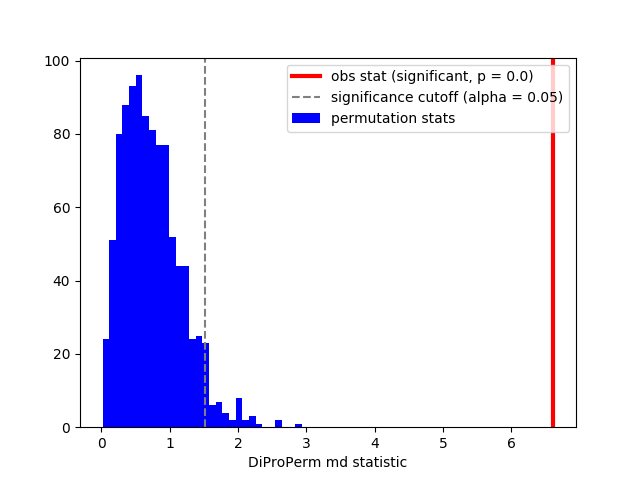
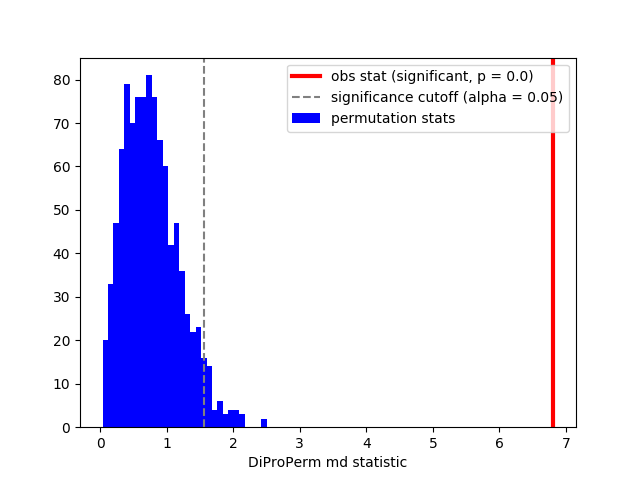
results to test_stats_, custom test stats

diff --git a/diproperm/DiProPerm.py b/diproperm/DiProPerm.py
@@ -6,13 +6,22 @@ from sklearn.externals.joblib import dump, load
 from sklearn.metrics import roc_auc_score
 from sklearn.externals.joblib import Parallel, delayed
 
+from diproperm.classifiers import get_md_scores
+
 
 class DiProPerm(object):
     """
-    Direction-Projection-Permutation for High Dimensional Hypothesis Tests (DiProPerm)
-    For details see Wei et al, 2016.
+    Direction-Projection-Permutation for High Dimensional Hypothesis Tests
+    (DiProPerm). See (Wei et al, 2016) for details.
 
-    Wei, S., Lee, C., Wichers, L., & Marron, J. S. (2016). Direction-projection-permutation for high-dimensional hypothesis tests. Journal of Computational and Graphical Statistics, 25(2), 549-569.
+    Let X1,...,Xm and Y1,...,Yn be independent random samples of d dimensional
+    random vectors with multivariate distributions F1 and F2, respectively.
+    We are interested interested the null hypothesis of equal distributions
+    H0 : F1 = F2 versus H1 : F1 != F2.
+
+    Wei, S., Lee, C., Wichers, L., & Marron, J. S. (2016).
+    Direction-projection-permutation for high-dimensional hypothesis tests.
+    Journal of Computational and Graphical Statistics, 25(2), 549-569.
 
     Parameters
     ----------
@@ -20,15 +29,24 @@ class DiProPerm(object):
         Number of permutations to sample.
 
     clf: str, callable
-        Linear classification algorithm to use. If str, must be one of ['md'].
-        If callable, must take two arguments: X, y and return a vector of scores
-        where the scores are Xw, w the linear classification normal vector.
+        Linear classification algorithm used to find a direction.
+        If str, must be one of ['md']. If callable, must take two arguments:
+        X, y and return a vector of scores where the scores are Xw, w the
+        linear classification normal vector.
 
     stat: str, list {'md', 't', 'auc'}
-        The test statistics to compute. Multiple can be provided.
+        The univariate two-sample summary statistics measuring the separation
+        between the two classes' scores. See section 2.2 of (Wei et al, 2016).
+        Multiple can be provided as a list.
 
     alpha: float
         Cutoff for significance.
+
+    custom_tests_stats: None, iterable of (str, callable) tuples
+        Custom test statistics which are a function of (obs_stat, perm_samples).
+        The str argument identifies the name of the statistic (used for)
+        keys of test_stats attributed. The function, f, must take
+        arguments f(obs_stat, perm_samples) and return a value.
 
     n_jobs: None, int
         Number of jobs for parallel processing permutations using
@@ -38,15 +56,15 @@ class DiProPerm(object):
     Attributes
     ----------
 
-    results: dict
-        dict keyed by summary statistics containing the results
+    test_stats_: dict
+        dict keyed by summary statistics containing the test statistics
         (e.g. p-value, Z statistic, etc)
 
-    perm: dict
-        dict keyed by summary statistics containing the permutation
-        samples.
+    perm_samples_: dict
+        dict containing the permutation statistic samples keyed by the
+        summary statistics.
 
-    metadata: dict
+    metadata_: dict
 
     classes_: list
         Class labels. For classification, classes_[0] is considered to
@@ -54,7 +72,7 @@ class DiProPerm(object):
 
     """
     def __init__(self, B=100, clf='md', stat='md', alpha=0.05,
-                 n_jobs=None):
+                 custom_test_stats=None, n_jobs=None):
 
         self.B = int(B)
         self.clf = clf
@@ -62,6 +80,7 @@ class DiProPerm(object):
         if type(stat) != list:
             stat = [stat]
         self.stat = stat
+        self.custom_test_stats = custom_test_stats
         self.n_jobs = n_jobs
 
     def get_params(self):
@@ -75,7 +94,7 @@ class DiProPerm(object):
             cats = self.classes_
             r += ' of {} vs. {} \n'.format(cats[0], cats[1])
             for s in self.stat:
-                r += '{}: {}\n'.format(s, self.results[s])
+                r += '{}: {}\n'.format(s, self.test_stats_[s])
 
         return r
 
@@ -103,20 +122,20 @@ class DiProPerm(object):
             ps = Parallel(n_jobs=self.n_jobs)(delayed(_get_stat)(X, y, self)
                                               for i in range(self.B))
 
-            perm_stats = {s: np.zeros(self.B) for s in self.stat}
+            perm_samples = {s: np.zeros(self.B) for s in self.stat}
             for b in range(self.B):
                 for s in self.stat:
-                    perm_stats[s][b] = ps[b][s]
-            return perm_stats
+                    perm_samples[s][b] = ps[b][s]
+            return perm_samples
 
         else:
-            perm_stats = {s: np.zeros(self.B) for s in self.stat}
+            perm_samples = {s: np.zeros(self.B) for s in self.stat}
             for b in range(self.B):
                 y_perm = np.random.permutation(y)
                 scores = self.compute_scores(X, y_perm)
                 for s in self.stat:
-                    perm_stats[s][b] = get_separation_statistic(scores, y_perm, stat=s)
-            return perm_stats
+                    perm_samples[s][b] = get_separation_statistic(scores, y_perm, stat=s)
+            return perm_samples
 
     def fit(self, X, y):
         """
@@ -144,27 +163,19 @@ class DiProPerm(object):
             obs_stat[s] = get_separation_statistic(obs_scores, y, stat=s)
 
         # compute permutation statistics
-        perm_stats = self.get_perm_sep_stats(X, y)
+        self.perm_samples_ = self.get_perm_sep_stats(X, y)
 
         # store results
-        self.perm = {}
-        self.results = {}
+        self.test_stats_ = {}
         for s in self.stat:
-            pval, Z, rejected, cutoff_val = get_test_stats(obs_stat[s],
-                                                           perm_stats[s])
+            self.test_stats_[s] = \
+                get_test_statistics(obs_stat=obs_stat[s],
+                                    perm_samples=self.perm_samples_[s],
+                                    alpha=self.alpha,
+                                    custom_test_stats=self.custom_test_stats)
 
-            self.perm[s] = {'samples': perm_stats[s],
-                            'mean': np.mean(perm_stats[s]),
-                            'std': np.std(perm_stats[s])}
-
-            self.results[s] = {'obs': obs_stat[s],
-                               'pval': pval,
-                               'Z': Z,
-                               'rejected': rejected,
-                               'cutoff_val': cutoff_val}
-
-        self.metadata = {'counter':  dict(Counter(y)),
-                         'shape': X.shape}
+        self.metadata_ = {'counter':  dict(Counter(y)),
+                          'shape': X.shape}
 
         return self
 
@@ -180,29 +191,32 @@ class DiProPerm(object):
         bins: int
             Number of bins for histogram.
         """
-        assert stat in self.results
+        assert stat in self.test_stats_.keys()
 
-        plt.hist(self.perm[stat]['samples'],
+        plt.hist(self.perm_samples_[stat],
                  color='blue',
                  label='permutation stats',
                  bins=bins)
 
-        if self.results[stat]['rejected']:
+        if self.test_stats_[stat]['rejected']:
             obs_lw = 3
-            obs_label = 'obs stat (significant, p = {})'.format(self.results[stat]['pval'])
+            obs_label = 'obs stat (significant, p = {})'.\
+                format(self.test_stats_[stat]['pval'])
         else:
             obs_lw = 1
-            obs_label = 'obs stat (not significant, p = {})'.format(self.results[stat]['pval'])
-        plt.axvline(self.results[stat]['obs'], color='red', lw=obs_lw, label=obs_label)
+            obs_label = 'obs stat (not significant, p = {})'.\
+                format(self.test_stats_[stat]['pval'])
 
-        plt.axvline(self.results[stat]['cutoff_val'], color='grey', ls='dashed',
-                    label='significance cutoff (alpha = {})'.format(self.alpha))
+        plt.axvline(self.test_stats_[stat]['obs'], color='red', lw=obs_lw,
+                    label=obs_label)
+
+        plt.axvline(self.test_stats_[stat]['cutoff_val'], color='grey',
+                    ls='dashed',
+                    label='significance cutoff (alpha = {})'.
+                          format(self.alpha))
 
         plt.xlabel('DiProPerm {} statistic'.format(stat))
         plt.legend()
-
-    # def get_test_stats(self, stat):
-    #     return {k: self.results[stat][k] for k in ['pval', 'rejected', 'Z', 'cutoff_val']}
 
 
 def _get_stat(X, y, dpp):
@@ -217,31 +231,38 @@ def _get_stat(X, y, dpp):
     return ps
 
 
-def get_test_stats(obs_stat, perm_stats, alpha=0.05):
-    pval = np.mean(obs_stat < perm_stats)
-    Z = (obs_stat - np.mean(perm_stats)) / np.std(perm_stats)
-
-    rejected = pval < alpha
-    cutoff_val = np.percentile(perm_stats, 100*(1-alpha))
-
-    return pval, Z, rejected, cutoff_val
-
-
-def get_md_scores(X, y):
+def get_test_statistics(obs_stat, perm_samples, alpha=0.05,
+                        custom_test_stats=None):
     """
-    Computes the mean difference scores i.e. X w_md where
-    w_md = normalized( mean(X_positive) - mean(X_negative) )
-    """
-    y = np.array(y)
-    X = np.array(X)
-    if X.ndim == 1:
-        X = X.reshape(-1, 1)
-    classes = np.unique(y)
-    assert len(classes) == 2
+    obs_stat: float
+        The observed statistic.
 
-    w = X[y == classes[0], :].mean(axis=0) - X[y == classes[1], :].mean(axis=0)
-    w /= np.linalg.norm(w)
-    return np.dot(X, w)
+    perm_samples: list
+        The sampled permutation statistics.
+
+    alpha: float, between 0 and 1
+        The cutoff value.
+
+    custom_tests_stats: None, iterable
+        User provided custom test statistics. Must allow for
+        for stat, f in custom_test_stats where stat is a str
+        and f is a function f(obs_stat, perm_samples) returning a value.
+    """
+
+    stats = {}
+    stats['obs'] = obs_stat
+
+    stats['pval'] = np.mean(obs_stat < perm_samples)
+    stats['rejected'] = stats['pval'] < alpha
+    stats['cutoff_val'] = np.percentile(perm_samples, 100 * (1 - alpha))
+
+    stats['Z'] = (obs_stat - np.mean(perm_samples)) / np.std(perm_samples)
+
+    if custom_test_stats is not None:
+        for stat, f in custom_test_stats:
+            stats[stat] = f(obs_stat=obs_stat, perm_samples=perm_samples)
+
+    return stats
 
 
 def get_separation_statistic(scores, y, stat='md'):

diff --git a/diproperm/classifiers.py b/diproperm/classifiers.py
@@ -110,3 +110,20 @@ def get_GNB_direction(clf):
     Sigma_inv = np.diag(1.0/sigma)  # TODO: safe invert
     w_nb = Sigma_inv.dot(w_md)
     return w_nb.reshape(-1)
+
+
+def get_md_scores(X, y):
+    """
+    Computes the mean difference scores i.e. X w_md where
+    w_md = normalized( mean(X_positive) - mean(X_negative) )
+    """
+    y = np.array(y)
+    X = np.array(X)
+    if X.ndim == 1:
+        X = X.reshape(-1, 1)
+    classes = np.unique(y)
+    assert len(classes) == 2
+
+    w = X[y == classes[0], :].mean(axis=0) - X[y == classes[1], :].mean(axis=0)
+    w /= np.linalg.norm(w)
+    return np.dot(X, w)

diff --git a/README.rst b/README.rst
@@ -52,7 +52,7 @@ Example
     dpp = DiProPerm(B=1000, stat='md', clf='md')
     dpp.fit(X, y)
 
-    dpp.results['md']
+    dpp.test_stats_['md']
 
 .. code:: python
 
